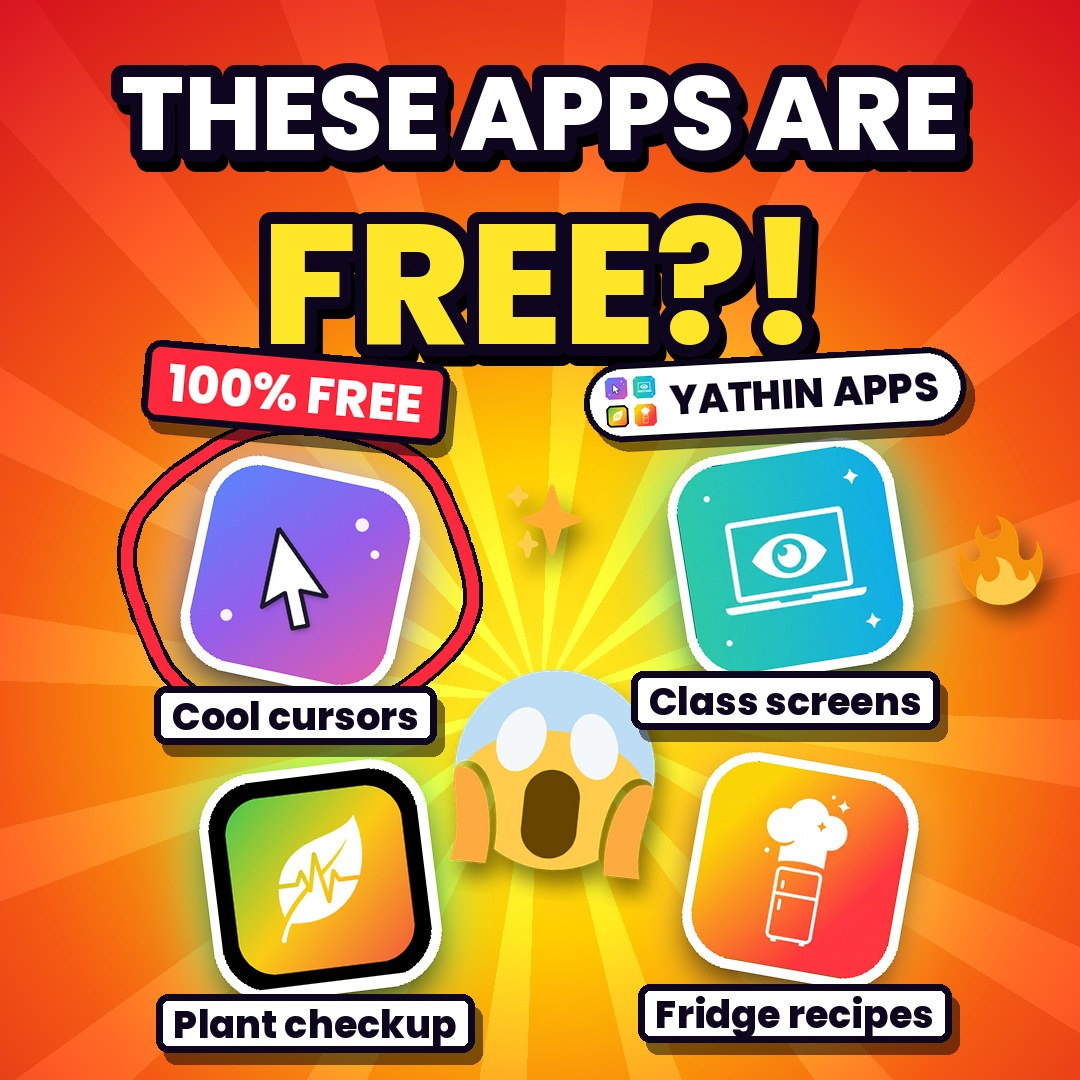
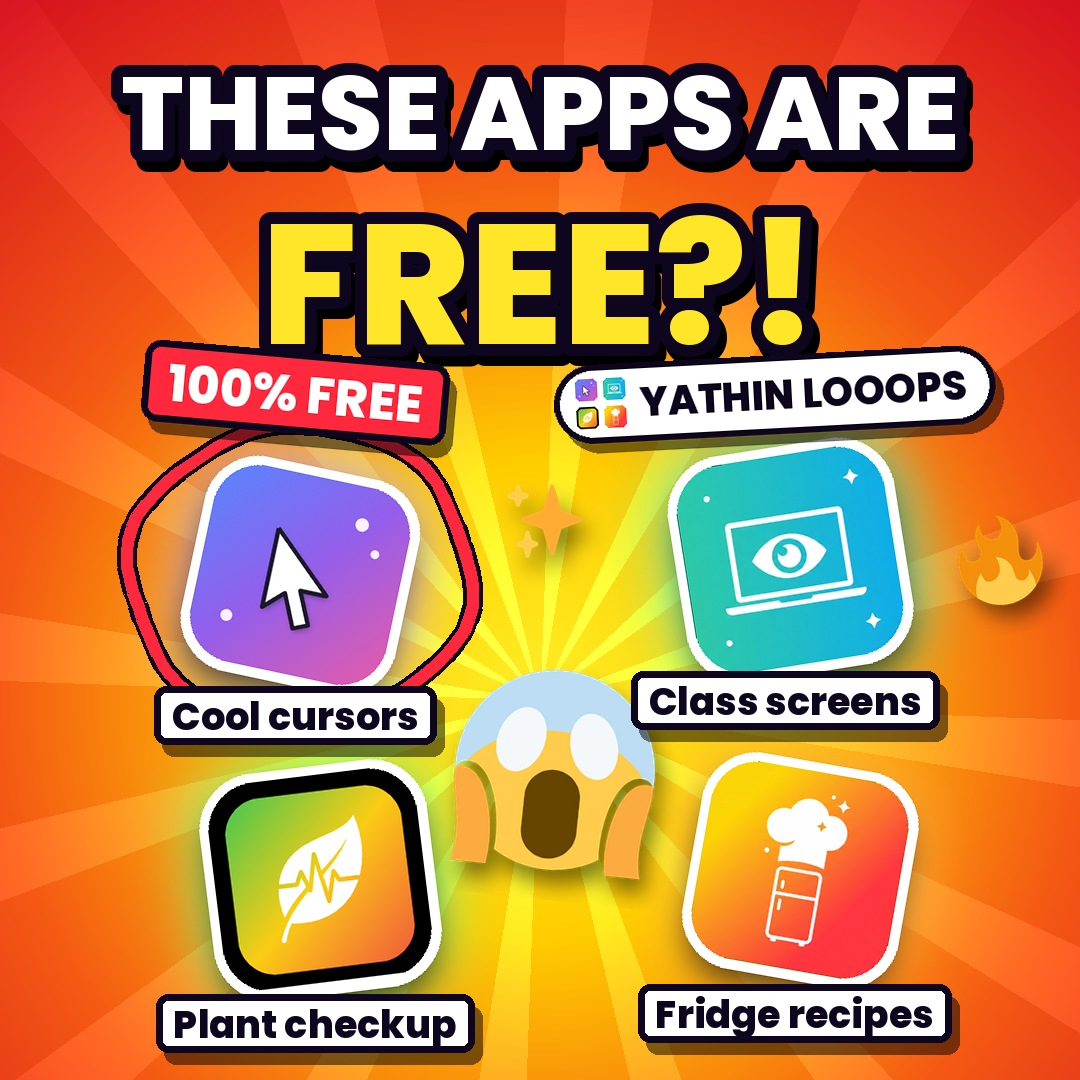
Hub thumbnails: Yathin Looops badge [skip ci]

Changed region(s): [[0.4889, 0.3056, 0.9472, 0.4278]]

diff --git a/videos/thumbnails/make_yathin_thumbnail.py b/videos/thumbnails/make_yathin_thumbnail.py
@@ -50,7 +50,7 @@ def arrow(bg,pts,w=16,col=(255,40,60)):
 def curve(p0,p1,p2,n=30): return [((1-t)**2*p0[0]+2*(1-t)*t*p1[0]+t*t*p2[0],(1-t)**2*p0[1]+2*(1-t)*t*p1[1]+t*t*p2[1]) for t in [i/n for i in range(n+1)]]
 
 def brand(bg,center,size,rot=0):
-    f=ImageFont.truetype(F,size); t='YATHIN APPS'; tw=ImageDraw.Draw(bg).textlength(t,font=f)
+    f=ImageFont.truetype(F,size); t='YATHIN LOOOPS'; tw=ImageDraw.Draw(bg).textlength(t,font=f)
     g=int(size*1.25); cell=(g-6)//2
     W=int(g+tw+size*1.6); H=int(size*1.95)
     L=Image.new('RGBA',(W+10,H+12),(0,0,0,0)); d=ImageDraw.Draw(L)
